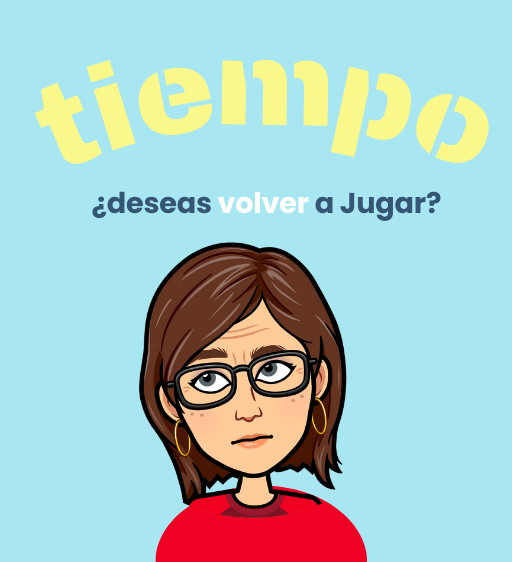
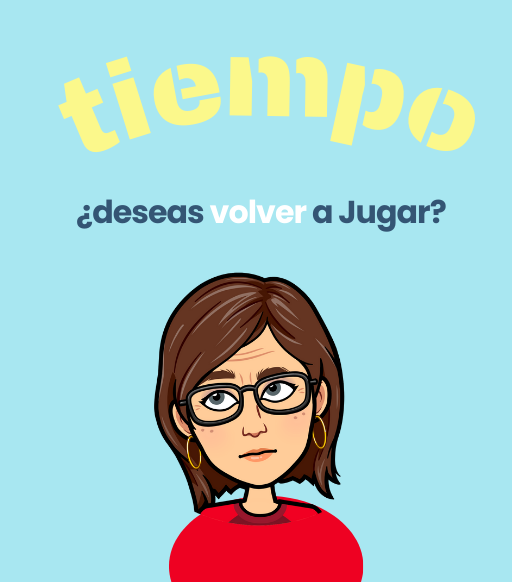
Ultimos Cambios Version 2.0

Changed region(s): [[0.25, 0.4235, 0.7188, 1.0], [0.0625, 0.0907, 0.9688, 0.3025], [0.1562, 0.3327, 0.875, 0.3932]]

diff --git a/assets/js/script.js b/assets/js/script.js
@@ -213,7 +213,7 @@ document.addEventListener("drop", verificarRompecabezasCompleto);
 // TEMPORIZADOR DE TIEMPO //
 
         const TIME_LIMIT = 
-        5;
+        60;
         let timePassed = 0;
         let timeLeft = TIME_LIMIT;
         let gameInterval;
@@ -256,8 +256,8 @@ document.addEventListener("drop", verificarRompecabezasCompleto);
               
               
               imageUrl: "https://raw.githubusercontent.com/delmonicoCL/LaiaBCN/main/assets/images/tiempo3.png",
-                            imageWidth: 400,
-              imageHeight: 400,
+              imageWidth: 400,
+              imageHeight: 480,
               color: "#716add",
               background: "#fff url(/assets/images/tiempo.png",
   
@@ -296,12 +296,12 @@ document.addEventListener("drop", verificarRompecabezasCompleto);
 
               }  else {
                 // Reanudar el tiempo si el usuario decide no salir
-                Swal.fire({
-                  title: '¡NOS VEMOS PRONTO!',
-                  icon:  'success',
-                  showConfirmButton: false,
-                  timer:1500,
-                })
+                // Swal.fire({
+                //   title: '¡NOS VEMOS PRONTO!',
+                //   icon:  'success',
+                //   showConfirmButton: false,
+                //   timer:1500,
+                // })
                 setTimeout(() => {
                   window.location.href = 'adios.html';
                 }, 1500);
@@ -326,37 +326,42 @@ document.addEventListener("drop", verificarRompecabezasCompleto);
         salirSound.play();
         detenerTemporizador(); 
         Swal.fire({
-        title: '¿Deseas Salir del Juego?',
-        text: 'Si sales, perderás tu progreso.',
-        icon: 'warning',
-        showCancelButton: true,
-        confirmButtonColor: '#fc8d72',
-        cancelButtonColor: '#517290',
-        confirmButtonText: 'Salir',
-        cancelButtonText: 'Volver', 
-        showClass: {
-          popup: `
-            animate__animated
-            animate__fadeInUp
-            animate__faster
-          `},
-        hideClass: {
-        popup: `
-          animate__animated
-          animate__fadeOutDown
-          animate__faster
-        `
-        },
-          
-          
-      }).then((result) => {
+              
+              
+              imageUrl: "https://raw.githubusercontent.com/delmonicoCL/LaiaBCN/main/assets/images/tiempo3.png",
+              imageWidth: 400,
+              imageHeight: 480,
+              color: "#716add",
+              background: "#fff url(/assets/images/salir.png",
+  
+              showCancelButton: true,
+              confirmButtonColor: '#517290',
+              cancelButtonColor: '#fc8d72',
+              confirmButtonText: 'SI',
+              cancelButtonText: 'NO', 
+              showClass: {
+                popup: `
+                  animate__animated
+                  animate__fadeInUp
+                  animate__faster
+                `},
+              hideClass: {
+              popup: `
+                animate__animated
+                animate__fadeOutDown
+                animate__faster
+              `
+              },
+                
+                
+            }).then((result) => {
         if (result.isConfirmed) {
-          Swal.fire({
-            title: '¡Hasta luego!',
-            icon:  'success',
-            showConfirmButton: false,
-            timer:1500,
-          })
+          // Swal.fire({
+          //   title: '¡Hasta luego!',
+          //   icon:  'success',
+          //   showConfirmButton: false,
+          //   timer:1500,
+          // })
           setTimeout(() => {
             window.location.href = 'adios.html';
           }, 1500);

diff --git a/index.html b/index.html
@@ -30,7 +30,7 @@
 	</div>
 
     <div class="BarraInformacion1 mt-5 d-flex justify-content-around ">
-    <a href="solar.html" style="text-decoration: none; color: rgb(36, 97, 96);">
+    <a  id="BarraInformacion1"  href="solar.html" style="text-decoration: none; color: rgb(36, 97, 96);">
         <h2 style="color: rgb(255, 254, 252)">Vamos a Jugar</h2>
       </a>
       </div>

diff --git a/logradoBAT.html b/logradoBAT.html
@@ -25,7 +25,7 @@
 			  
 				
 			<video id="videoPresentacion" width="1200px" height="750px" autoplay>
-				<source src="assets/media/EnergiaBaterias.mp4" type="video/mp4">
+				<source src="assets/media/Energía  Baterías .mp4" type="video/mp4">
 			</video>
 			  
 				
